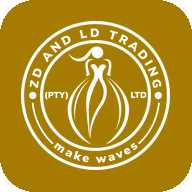
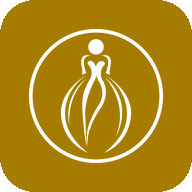
Add files via upload

Changed region(s): [[0.0938, 0.0938, 0.9062, 0.9062]]

diff --git a/index.html b/index.html
@@ -32,7 +32,7 @@ html.boot{background:#a57c00}@keyframes fi{from{opacity:0}}#sp{position:fixed;in
 @media print{body>*:not(#rep){display:none!important}#rep{display:block!important}body{background:#fff;color:#000;padding:0}table{width:100%;border-collapse:collapse;font-size:11px}th,td{border:1px solid #999;padding:4px;text-align:left}th{background:#505b6a;color:#fff;-webkit-print-color-adjust:exact;print-color-adjust:exact}}
 </style></head><body>
[1 lines of base64/hex data omitted]
-<header><span class="lg"><img src="logo-gold.png" alt=""></span><h1>ZD&amp;LD <span>Trading</span></h1><span id="st"></span><button id="th" class="hb" onclick="S.th=dk()?'light':'dark';save();render()"></button><button id="gr" class="hb" onclick="tab='setup';render()" aria-label="Settings"></button></header>
+<header><span class="lg"><img src="logo-mark.png" alt=""></span><h1>ZD&amp;LD <span>Trading</span></h1><span id="st"></span><button id="th" class="hb" onclick="S.th=dk()?'light':'dark';save();render()"></button><button id="gr" class="hb" onclick="tab='setup';render()" aria-label="Settings"></button></header>
 <main id="main"></main><nav id="nav"></nav><div id="t"></div><div id="rep"></div>
 <script>
 const $=s=>document.querySelector(s),jp=s=>{try{return JSON.parse(s)||{}}catch(x){return{}}};

diff --git a/sw.js b/sw.js
@@ -1,5 +1,5 @@
-const C = 'zdld-3';
-self.addEventListener('install', e => e.waitUntil(caches.open(C).then(c => c.addAll(['./', 'index.html', 'manifest.json', 'logo-gold.png', 'logo-white.png', 'icon-192.png']))));
+const C = 'zdld-4';
+self.addEventListener('install', e => e.waitUntil(caches.open(C).then(c => c.addAll(['./', 'index.html', 'manifest.json', 'logo-gold.png', 'logo-mark.png', 'logo-white.png', 'icon-192.png']))));
 self.addEventListener('activate', e => e.waitUntil(caches.keys().then(k => Promise.all(k.filter(x => x !== C).map(x => caches.delete(x))))));
 self.addEventListener('fetch', e => {
   if (e.request.method !== 'GET' || !e.request.url.startsWith(self.location.origin)) return;
